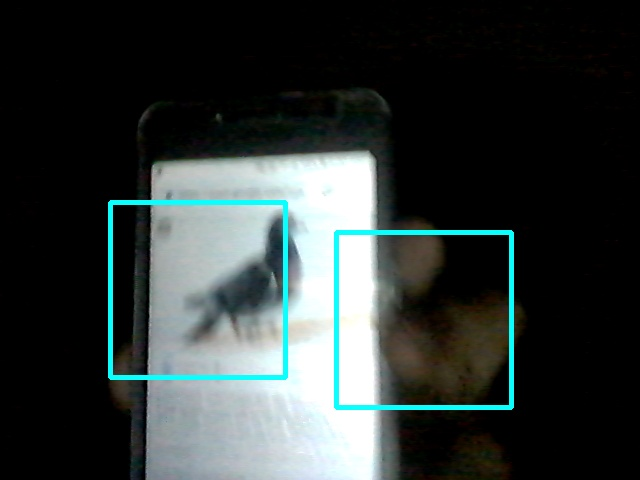
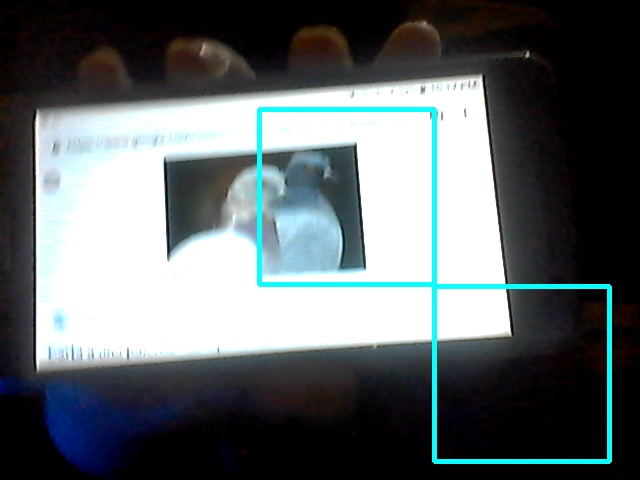
Funcional, recordar mejorar modelo y correr el script como admin

diff --git a/DeteccionObjetosConArduino/app.py b/DeteccionObjetosConArduino/app.py
@@ -1,14 +1,8 @@
 import os
+import time
 
 import cv2
 import serial
-
-#Configuración serial
-comunicacionSerial = serial.Serial(
-    port='COM4',
-    baudrate=9600,
-    timeout=1
-)
 
 
 def guardarImagenObjeto(imagen):
@@ -19,10 +13,9 @@ def guardarImagenObjeto(imagen):
 
     detectado = clasificador.detectMultiScale(
         imagen,
-        minNeighbors=60,
+        minNeighbors=90,
         scaleFactor=3.5,
-        minSize=(90,90),
-        flags=cv2.CALIB_CB_NORMALIZE_IMAGE
+        minSize=(90,90)
     )
 
     if len(detectado) >= 1:
@@ -30,26 +23,26 @@ def guardarImagenObjeto(imagen):
             cv2.rectangle(imagen, (x, y), (x + w, y + h), (500, 600, 10), 3)
         pathSalida = pathSalida +str(len(os.listdir(path=pathSalida))+1)+".jpg"
         cv2.imwrite(pathSalida, imagen)
-        comunicacionSerial.write(data=b'1')
-
+        comunicacionSerial.write(b'2')
+        print("Reconocido, guardado y enviado!")
 
     del clasificador, imagen
 
 
+
+
 captura = cv2.VideoCapture(0)
+comunicacionSerial = serial.Serial('COM5', 9600)
+while True:
+    leido = comunicacionSerial.readline().decode("utf-8").rstrip("\r\n")
+    if leido == "M":
+        print("Movimiento Naranja!")
 
-while comunicacionSerial.is_open():
-    leido = comunicacionSerial.read()
-    print("Leido: ",leido)
-    if not leido is None:
-        for i in range (0,3):
-            a, capturado = captura.read()
+        a, capturado = captura.read()
+        guardarImagenObjeto(capturado)
+        time.sleep(2)
 
-            if not a:
-                break
-
-            guardarImagenObjeto(capturado)
-
+    del leido
 captura.release()
 cv2.destroyAllWindows()
 comunicacionSerial.close()
